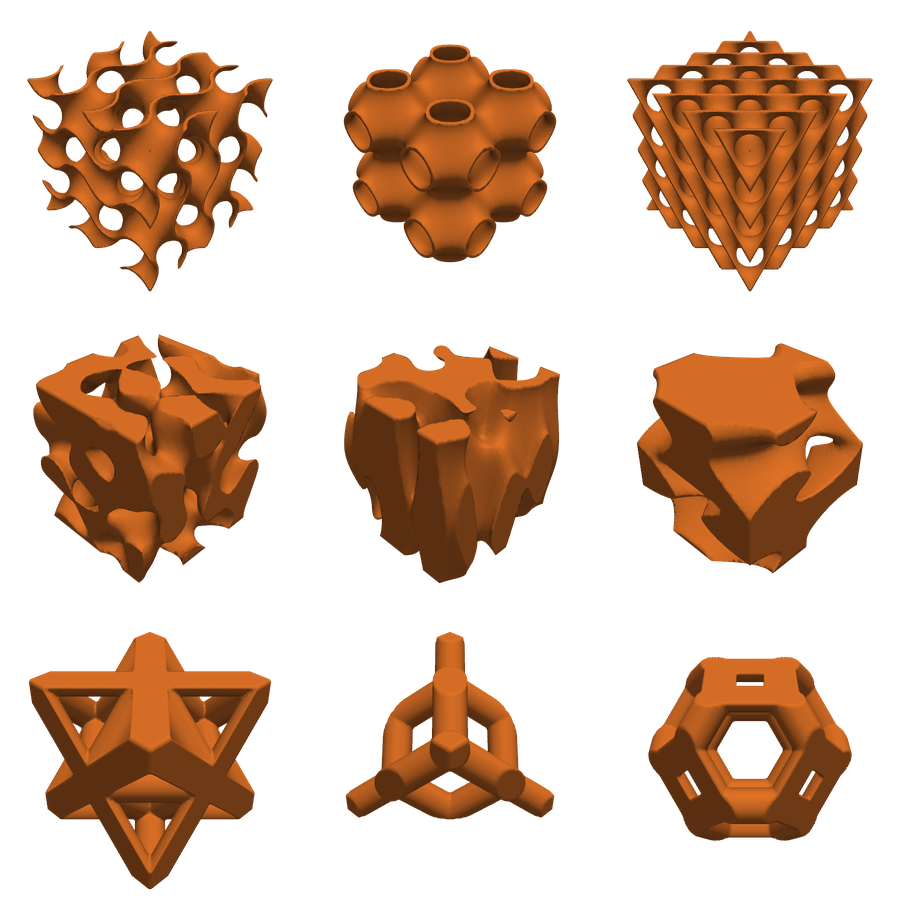
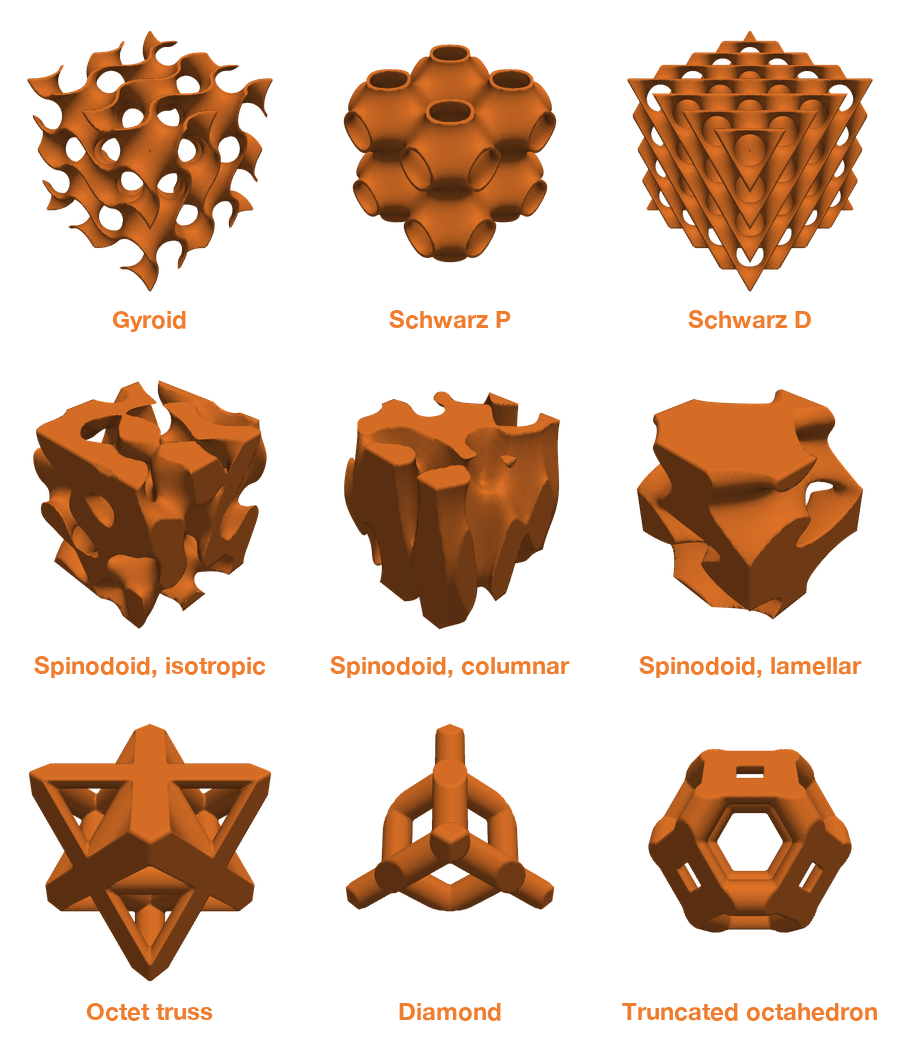
Update showcase images and replace spinodoid GIF
Refresh the showcase image and switch the spinodoid morph animation from GIF to WebP in the README and overview documentation.

diff --git a/README.md b/README.md
@@ -18,7 +18,7 @@ The CAD path (`.generate_cad()` on shapes, `Phase`, `fuse_shapes`, periodic spli
 
 <p align="center">
     <a href="https://3mah.github.io/microgen-docs/examples/index.html"><img src="docs/_static/microgen_showcase.png" alt="TPMS, spinodoids and strut lattices generated with microgen" title="TPMS, spinodoids and strut lattices" width="49%"></a>
-    <a href="https://3mah.github.io/microgen-docs/examples/Spinodoids/spinodoid.html"><img src="docs/_static/spinodoid_morph.gif" alt="Wireframe spinodoid morphing between two random realisations" title="Spinodoid" width="49%"></a>
+    <a href="https://3mah.github.io/microgen-docs/examples/Spinodoids/spinodoid.html"><img src="docs/_static/spinodoid_morph.webp" alt="Wireframe spinodoid morphing between two random realisations" title="Spinodoid" width="49%"></a>
 </p>
 
 ## Hello, gyroid (implicit-first, no CAD needed)

diff --git a/docs/Overview.rst b/docs/Overview.rst
@@ -43,7 +43,7 @@ Here are the main features:
 
    <p align="center">
       <a href="examples/index.html"><img src="_static/microgen_showcase.png" alt="TPMS, spinodoids and strut lattices generated with microgen" width="49%"/></a>
-      <a href="examples/Spinodoids/spinodoid.html"><img src="_static/spinodoid_morph.gif" alt="Wireframe spinodoid morphing between two random realisations" width="49%"/></a>
+      <a href="examples/Spinodoids/spinodoid.html"><img src="_static/spinodoid_morph.webp" alt="Wireframe spinodoid morphing between two random realisations" width="49%"/></a>
    </p>
 
 Brief examples
